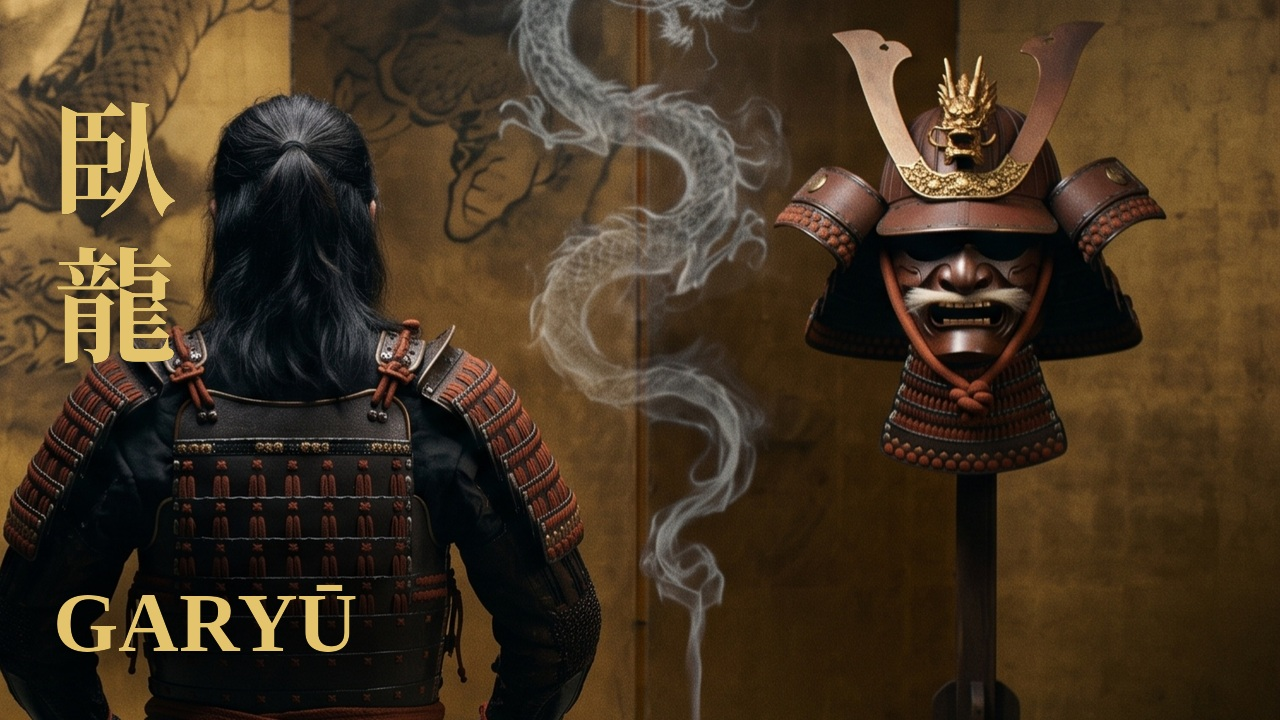
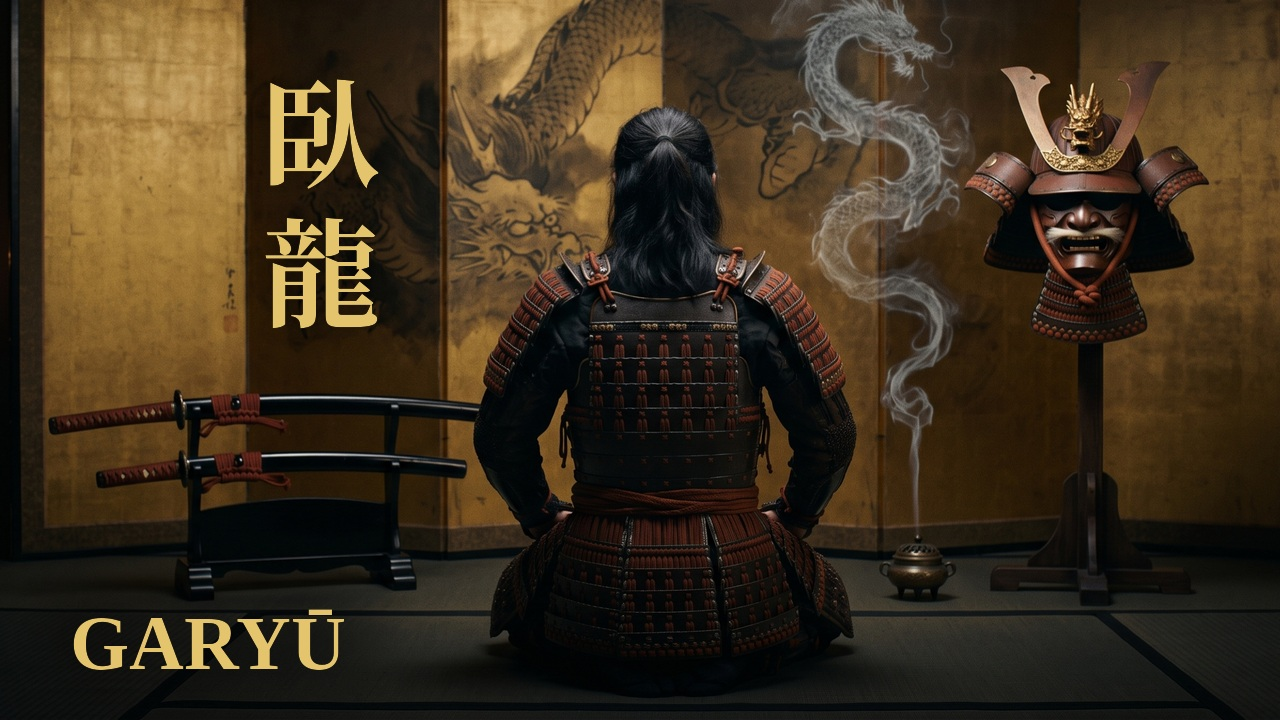
stillwave: GARYU thumbnail on the uncropped hero
Drops the crop. The tighter frame made the menpo read better at feed size
but cut away the swords and half the room, and the whole scene is what
sells a two-hour session -- swords, figure, burner, helmet on its stand.

Text placement still comes from measurement, not the eye. The screen's
panel seam gives a dark vertical band at x 20-28% (brightness 22-27, std
3-8); 臥龍 goes there vertically, in gold over a blurred dark halo, without
which gold-on-gold sinks into the screen. GARYU sits low-left on the dark
tatami at x 5.5%, y 83.5% behind a soft scrim.

Output measures: text x 5.8-29.5%, y 11.1-92.9%; bottom-right logo corner
brightness 24 against a threshold of 60.

garyu-compose-thumb.py now takes CROP = None and reproduces the committed
file from the hero.

diff --git a/stillwave/assets/garyu-compose-thumb.py b/stillwave/assets/garyu-compose-thumb.py
@@ -40,7 +40,7 @@ JP_CANDIDATES = [
     "/usr/share/fonts/truetype/fonts-japanese-gothic.ttf",  # запасной, гротеск
 ]
 
-CROP = (900, 90, 1494)          # x, y, ширина в координатах героя; высота = 9/16
+CROP = None                     # кадр героя не режем — только текст поверх
 KANJI, ROMAJI, GLOSS = "臥龍", "Seichū no dō", "MOVEMENT  WITHIN  STILLNESS"
 WISDOM_KANJI = "静中動"
 
@@ -62,33 +62,36 @@ def opaque_bbox(img, pct=True):
 
 
 def build_thumb(hero, out):
-    x, y, w = CROP
-    h = round(w * 9 / 16)
-    y = min(y, hero.size[1] - h)
-    th = hero.crop((x, y, x + w, y + h)).resize((1280, 720), Image.LANCZOS)
+    if CROP:
+        x, y, w = CROP
+        h = round(w * 9 / 16)
+        y = min(y, hero.size[1] - h)
+        hero = hero.crop((x, y, x + w, y + h))
+    th = hero.resize((1280, 720), Image.LANCZOS)
     TW, TH = th.size
     layer = Image.new("RGBA", (TW, TH), (0, 0, 0, 0))
 
     # 臥龍 縦書き слева, тёмный ореол — золото по золоту иначе тонет
-    size = 124
+    # тёмная вертикальная полоса на стыке панелей ширмы: x 20–28%, яркость 22–27
+    size = 118
     fk = jp_font(size)
-    kx, ky = int(TW * 0.042), int(TH * 0.09)
+    kx, ky = int(TW * 0.205), int(TH * 0.06)
     halo = Image.new("RGBA", (TW, TH), (0, 0, 0, 0))
     dh = ImageDraw.Draw(halo)
     for i, c in enumerate(KANJI):
-        dh.text((kx, ky + i * int(size * 1.17)), c, font=fk, fill=(0, 0, 0, 195))
+        dh.text((kx, ky + i * int(size * 1.18)), c, font=fk, fill=(0, 0, 0, 190))
     layer = Image.alpha_composite(layer, halo.filter(ImageFilter.GaussianBlur(28)))
     dl = ImageDraw.Draw(layer)
     for i, c in enumerate(KANJI):
-        dl.text((kx, ky + i * int(size * 1.17)), c, font=fk, fill=GOLD + (255,))
+        dl.text((kx, ky + i * int(size * 1.18)), c, font=fk, fill=GOLD + (255,))
 
     # GARYŪ низом по тёмному переднему плану, мягкий скрим вместо обводки
-    fg = ImageFont.truetype(LS, 84)
+    fg = ImageFont.truetype(LS, 76)
     tw = dl.textlength("GARYŪ", font=fg)
-    gx, gy = int(TW * 0.042), int(TH * 0.80)
+    gx, gy = int(TW * 0.055), int(TH * 0.835)
     scr = Image.new("RGBA", (TW, TH), (0, 0, 0, 0))
     ImageDraw.Draw(scr).rounded_rectangle(
-        [gx - 34, gy - 24, gx + tw + 34, gy + 100], 30, fill=(0, 0, 0, 125))
+        [gx - 30, gy - 20, gx + tw + 30, gy + 92], 28, fill=(0, 0, 0, 115))
     layer = Image.alpha_composite(scr.filter(ImageFilter.GaussianBlur(30)), layer)
     ImageDraw.Draw(layer).text((gx, gy), "GARYŪ", font=fg, fill=GOLD + (255,))
 
@@ -98,8 +101,7 @@ def build_thumb(hero, out):
 
     g = np.asarray(res.convert("L"), dtype=np.float32)
     corner = g[int(TH * 0.78):, int(TW * 0.80):].mean()
-    print(f"thumb   шлем {(2393 - 1484) / w * 100:.0f}% ширины -> {(2393 - 1484) / w * 168:.0f}px в ленте")
-    print(f"        угол логотипа: яркость {corner:.0f} {'ok' if corner < 60 else 'СВЕТЛО'}")
+    print(f"thumb   угол логотипа: яркость {corner:.0f} {'ok' if corner < 60 else 'СВЕТЛО'}")
     print("        текст: x {:.1f}–{:.1f}%  y {:.1f}–{:.1f}%".format(*opaque_bbox(layer)))
 
 

diff --git a/stillwave/scripts/garyu-2h.md b/stillwave/scripts/garyu-2h.md
@@ -837,20 +837,15 @@ stillwave, samurai music, japanese samurai music, samurai meditation music, japa
 
 ### Как собрано (2026-08-22)
 
-`stillwave/assets/garyu-compose-thumb.py <hero.jpg>` делает и превью, и оверлей, и печатает проверочные числа. Кроп подобран замером, а не на глаз:
+`stillwave/assets/garyu-compose-thumb.py <hero.jpg>` делает превью и оверлей и печатает проверочные числа.
 
-| кроп | шлем в кадре | в ленте 168px | что в кадре |
-|---|---|---|---|
-| весь кадр | 38% | 64px | оскал — тёмное пятно ❌ |
-| x500 w1894 | 48% | 81px | вся сцена, маска всё ещё не читается ❌ |
-| **x900 w1494** | **61%** | **102px** | **фигура + дым + маска — взято** ✅ |
-| x1050 w1344 | 68% | 114px | маска лучше всех, но человека нет ❌ |
+**Кадр героя не режется** — только текст поверх. Пробный вариант с кропом (шлем крупнее, маска читается лучше на 168px) отвергнут: он выбрасывает часть композиции, а сцена целиком — мечи, фигура, курильница, шлем на подставке — и есть то, что продаёт двухчасовую сессию.
 
-Самый тесный кроп читается лучше всего, но выбрасывает фигуру спиной к камере — а это проверенный сигнал шаблона Kanji-Concept (KAMI, TORA, BUDŌ). Средний держит оба: маска читается, фигура и хвост остаются, дымный дракон идёт силуэтом по золоту.
+Размещение по замеру, не на глаз. На стыке панелей ширмы есть тёмная вертикальная полоса — `x 20–28%`, яркость 22–27, контраст 3–8. Туда идёт **臥龍 в столбик** золотом с размытым тёмным ореолом: без ореола золото по золотой ширме тонет. **GARYŪ** — низом слева по тёмной татами, `x 5.5%`, `y 83.5%`, с мягким скримом.
 
-Числа готового файла: текст занимает `x 4.5–27.7%`, `y 14.2–90.4%`; правый нижний угол под логотип — яркость **40** (порог 60). 臥龍 идёт золотом с размытым тёмным ореолом, иначе золото по золоту тонет.
+Числа готового файла: текст занимает `x 5.8–29.5%`, `y 11.1–92.9%`; правый нижний угол под логотип — яркость **24** при пороге 60.
 
-**🇺🇦** Кроп выбран по замеру, а не на глаз: в полном кадре шлем 38% ширины и в ленте оскал не читается; тесный кроп читается лучше всех, но убирает фигуру — берём средний, он держит и маску, и человека.
+**🇺🇦** Кадр не трогаем, добавляется только текст. Позиции взяты замером: тёмная полоса на стыке панелей ширмы под кандзи, тёмная татами под латиницу. Угол под логотип чистый.
 
 ---
 
